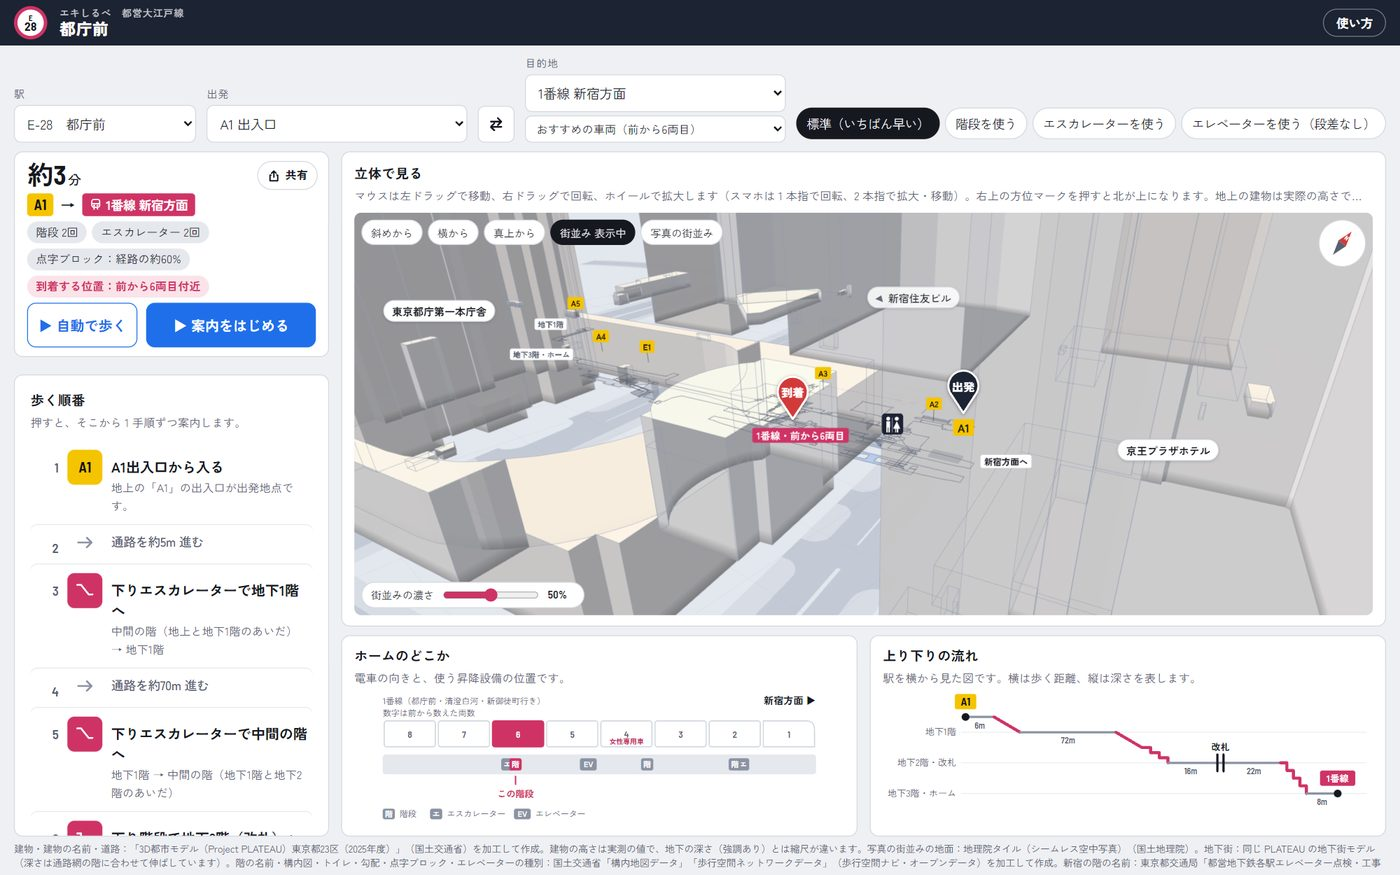
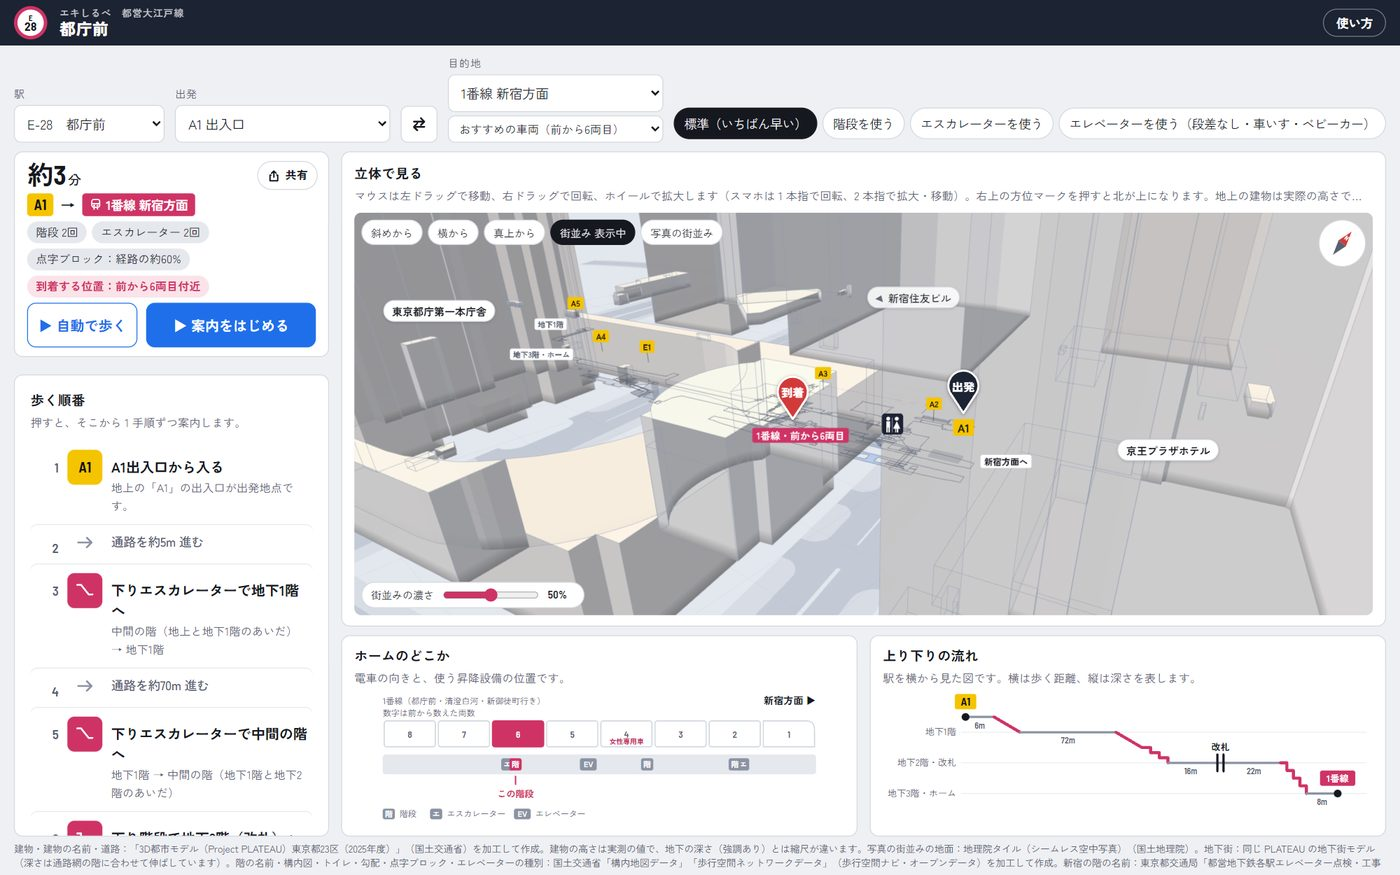
街並みの濃さの不具合を直す（100% で不透明）

Changed region(s): [[0.2764, 0.0617, 0.9829, 0.1851], [0.1229, 0.0926, 0.1843, 0.1543], [0.3071, 0.0617, 0.3379, 0.0926]]

diff --git a/index.html b/index.html
@@ -979,8 +979,18 @@ var View3D = (function () {
       geo.computeVertexNormals();
       // 半透明にして地下の経路を隠さない。輪郭線は控えめに（濃さは applyOpacity で街並みの濃さに合わせる）
       var m = new THREE.Mesh(geo, new THREE.MeshLambertMaterial({ vertexColors: true, transparent: true, opacity: 0.5, side: THREE.DoubleSide, depthWrite: false }));
+      // 下描き: 色は塗らず、建物のいちばん手前の面の奥行きだけ覚える（m の子なので、m を隠せば一緒に隠れる）。建物の面は、その奥行きと
+      // 同じ所だけ塗る。建物はぜんぶ 1 つの形なので、前後を比べずに描くと、濃くするほど奥の壁が手前の壁の上に描かれ、100% では崩れて
+      // 見えていた（2026-10-10 利用者「街並みの『街並みの濃さ』の不具合を直して。100％対応」）。地下の通路網・構内図・地下街より後に
+      // 描くので（renderOrder 8・9）、それらは隠さない
+      // 奥行きは少し奥にずらす（同じ所にある面と輪郭の線が、覚えた奥行きに負けて描かれないことがあった）
+      var pre = new THREE.Mesh(geo, new THREE.MeshBasicMaterial({ colorWrite: false, depthWrite: true, transparent: true, side: THREE.DoubleSide,
+        polygonOffset: true, polygonOffsetFactor: 1, polygonOffsetUnits: 4 }));
+      pre.renderOrder = 8; m.add(pre);
+      m.renderOrder = 9;
       m.userData.city = 'fill'; netMeshes.push(m); scene.add(m);
       var edges = new THREE.LineSegments(new THREE.EdgesGeometry(geo, 30), new THREE.LineBasicMaterial({ color: css('--bldg'), transparent: true, opacity: 0.45, depthWrite: false }));
+      edges.renderOrder = 9; // 下描きより後（建物の陰になる輪郭は描かない）
       edges.userData.city = 'edge'; netMeshes.push(edges); scene.add(edges);
       // 代表的な建物の名前（目印）。画面に重ねる札で、画面の外の建物は端に向きの矢印つきで出す（placeNames）
       (city.n || []).forEach(function (n) {
@@ -2120,9 +2130,9 @@ var View3D = (function () {
     var coneGeo = new THREE.ConeGeometry(radius * 2.4, radius * 5.5, 20); coneGeo.translate(0, radius * 2.2, 0);
     var cone = new THREE.Mesh(coneGeo, new THREE.MeshBasicMaterial({ color: color, transparent: true }));
     cone.quaternion.setFromUnitVectors(new THREE.Vector3(0, 1, 0), dir);
-    cone.position.copy(end); cone.renderOrder = 11;
+    cone.position.copy(end); cone.renderOrder = 12; // 円柱（11）が奥行きを消した後に描く（建物の下描きに隠れないように）
     var ball = new THREE.Mesh(new THREE.SphereGeometry(radius * 1.8, 16, 12), new THREE.MeshBasicMaterial({ color: color, transparent: true }));
-    ball.position.copy(sp[0]); ball.renderOrder = 11;
+    ball.position.copy(sp[0]); ball.renderOrder = 12;
     [cone, ball].forEach(function (m) {
       m.frustumCulled = false;
       m.onBeforeRender = function (r, sc, cam) { var wp = m.getWorldPosition(new THREE.Vector3()); m.scale.setScalar(Math.max(0.01, cam.position.distanceTo(wp) * pxWorld(cam) / radius)); };
@@ -2590,7 +2600,8 @@ var View3D = (function () {
       var u = m.userData, b;
       var photo = photoCity && photoState.ready;
       if (u.city === 'road') b = photo ? 0 : Math.min(1, 0.35 + cityAlpha * 2.2); // 写真の街並みでは、道路は地面の写真に写っている
-      else if (u.city === 'fill') b = photo ? 0 : Math.min(0.92, cityAlpha * 2.6);
+      // 建物の面: 初めの 35% で 0.91 まで（前と同じ）、そこから 100% で不透明（前は 0.92 で止まっていた）
+      else if (u.city === 'fill') b = photo ? 0 : cityAlpha <= 0.35 ? cityAlpha * 2.6 : Math.min(1, 0.91 + (cityAlpha - 0.35) / 0.65 * 0.09);
       else if (u.city === 'edge') b = photo ? 0 : cityAlpha * 0.9;
       else if (u.city === 'photo') b = alphaCurve(0.6); // 写真の建物: 初めの 15% で 0.6
       else if (u.city === 'photoground') b = u.loaded ? alphaCurve(0.58) : 0;
